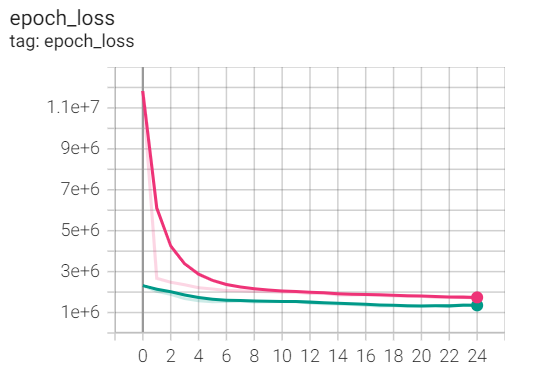
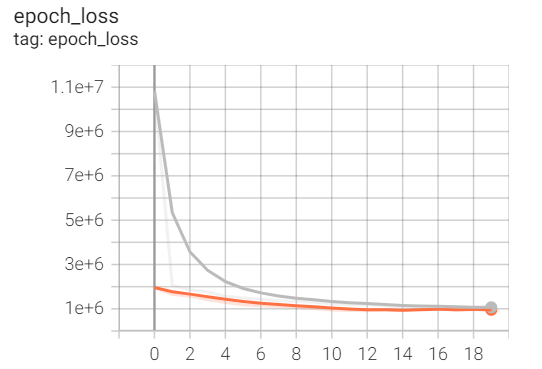
Code and images update
Updated code to include correct order of ordinal categorical values for OrdinalEncoder. Updated the results images upon rerunning the training of the model.

Changed region(s): [[0.0887, 0.1789, 0.9464, 0.9837], [0.0, 0.0298, 0.2662, 0.1491]]

diff --git a/diamond_price_prediction.py b/diamond_price_prediction.py
@@ -33,7 +33,10 @@ print(diamond_label.head())
 
 #%%
 #5. Ordinal encode categorical features
-ordinal_encoder = OrdinalEncoder()
+cut_categories = ['Fair','Good','Very Good','Premium','Ideal']
+color_categories = ['J','I','H','G','F','E','D']
+clarity_categories = ['I1','SI2','SI1','VS2','VS1','VVS2','VVS1','IF']
+ordinal_encoder = OrdinalEncoder(categories=[cut_categories,color_categories,clarity_categories])
 diamond_features[['cut','color','clarity']] = ordinal_encoder.fit_transform(diamond_features[['cut','color','clarity']])
 #Check the transformed features
 print("---------------Transformed Features--------------------")
